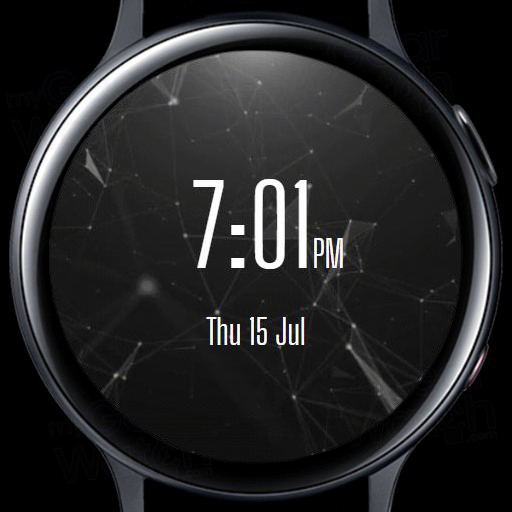
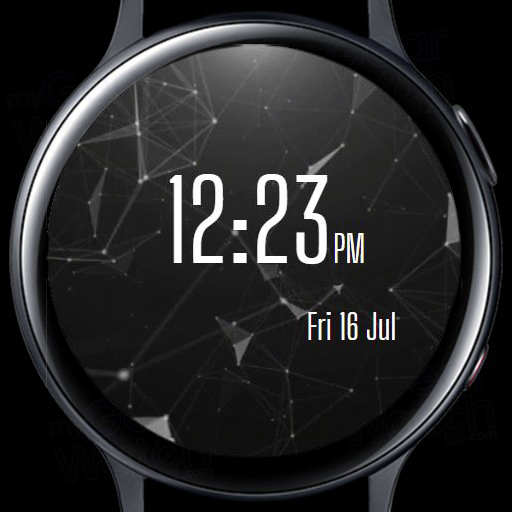
added explore page and poker face watch

diff --git a/css/style.css b/css/style.css
@@ -1,1 +1,1 @@
-body{min-height:100vh;width:100%;background-color:#000}#landingPage{width:100%;height:50vh;background-image:url("./../../images/watchBackgroundDigital.jpg");background-position:center;background-size:cover;background-repeat:no-repeat;display:flex;align-items:center;justify-content:center;box-shadow:0 0 20px #000;clip-path:ellipse(100% 55% at 48% 44%)}nav{width:100%;position:absolute;top:0;padding:10px 0;max-height:42.5px}nav .watchIcon{height:30px;margin-left:10px}nav ul{float:right;position:relative;width:350px;display:flex;align-items:center;justify-content:space-around;font-family:"Raleway",sans-serif;font-weight:400;font-size:20px;list-style:none;color:#fff}nav ul li{transition:.3s ease-in-out;cursor:pointer}nav ul li a{text-decoration:none;color:#fff}nav ul li a:hover{color:#dce0e6}nav .selected{color:#dce0e6}nav .selected::after{content:"";border-bottom:1px solid #0226b0;display:block}#getStartedBox{display:flex;flex-direction:column;justify-content:center;align-items:center}#getStartedBox #getStartedButtons{display:flex;justify-content:space-around;align-items:center;width:200px;height:50px}#getStartedBox #getStartedButtons button{width:80px;height:40px;font-family:"Raleway",sans-serif;font-weight:800;border:2px solid;cursor:pointer;border-radius:2px;transition:.3s ease-in-out}#getStartedBox #getStartedButtons #getStarted{background-color:#f7d826;border-color:#f7d826}#getStartedBox #getStartedButtons #getStarted:hover{background-color:transparent;color:#f7d826;border-color:#0226b0}#getStartedBox #getStartedButtons #learnMore{background-color:transparent;border-color:#0226b0;color:#f7d826}#getStartedBox #getStartedButtons #learnMore:hover{background-color:#f7d826;color:#000;border-color:#f7d826}h1{color:#fff;font-family:"Playfair Display",serif;font-size:80px;font-weight:400;margin-bottom:10px;text-align:center;text-shadow:3px 4px 3px #000}h2{color:#fff;font-family:"Playfair Display",serif;font-size:70px;font-weight:400;margin-bottom:10px;text-align:center;text-shadow:3px 4px 3px #000}.watchFaceContainer{width:320px;height:345px;background-color:#000;text-align:center;font-family:"Raleway",sans-serif;font-weight:300;color:#fff;margin:10px 20px;border-radius:2px;transition:.3s ease-in-out}.watchFaceContainer:hover{background-color:#dce0e6;color:#000}.watchFaceContainer img{margin:0 auto;border-radius:2px;width:100%}#introFaces{display:flex;flex-wrap:wrap;align-items:center;justify-content:space-around;margin:40px 0;padding:20px 0;border-radius:2px}@media screen and (max-width: 550px){h1{font-size:50px}}#aboutMe{margin-top:100px;display:flex;flex-direction:column}#aboutMe p{color:#fff;font-family:"Raleway",sans-serif;line-height:1.5;width:600px;margin:30px auto}#aboutMe a{margin:0 auto}#mePortrait{width:250px;position:relative;margin:0 auto;border-radius:2px}.contactButton{width:80px;height:40px;font-family:"Raleway",sans-serif;font-weight:800;background-color:transparent;border:2px solid #f7d826;border-radius:2px;color:#f7d826;transition:.3s ease-in-out;cursor:pointer}.contactButton:hover{background-color:#f7d826;color:#000}*{padding:0;margin:0;box-sizing:border-box}/*# sourceMappingURL=style.css.map */
+nav{width:100%;position:absolute;top:0;padding:10px 0;max-height:42.5px}nav .watchIcon{height:30px;margin-left:10px}nav ul{float:right;position:relative;width:350px;display:flex;align-items:center;justify-content:space-around;font-family:"Raleway",sans-serif;font-weight:400;font-size:20px;list-style:none;color:#fff}nav ul li{transition:.3s ease-in-out;cursor:pointer}nav ul li a{text-decoration:none;color:#fff}nav ul li a:hover{color:#dce0e6}nav .selected{color:#dce0e6}nav .selected::after{content:"";border-bottom:1px solid #0226b0;display:block}body{min-height:100vh;width:100%;background-color:#000}#landingPage{width:100%;height:50vh;background-image:url("./../../images/watchBackgroundDigital.jpg");background-position:center;background-size:cover;background-repeat:no-repeat;display:flex;align-items:center;justify-content:center;box-shadow:0 0 20px #000;clip-path:ellipse(100% 55% at 48% 44%)}#getStartedBox{display:flex;flex-direction:column;justify-content:center;align-items:center}#getStartedBox #getStartedButtons{display:flex;justify-content:space-around;align-items:center;width:200px;height:50px}#getStartedBox #getStartedButtons button{width:80px;height:40px;font-family:"Raleway",sans-serif;font-weight:800;border:2px solid;cursor:pointer;border-radius:2px;transition:.3s ease-in-out}#getStartedBox #getStartedButtons #getStarted{background-color:#f7d826;border-color:#f7d826}#getStartedBox #getStartedButtons #getStarted:hover{background-color:transparent;color:#f7d826;border-color:#0226b0}#getStartedBox #getStartedButtons #learnMore{background-color:transparent;border-color:#0226b0;color:#f7d826}#getStartedBox #getStartedButtons #learnMore:hover{background-color:#f7d826;color:#000;border-color:#f7d826}h1{color:#fff;font-family:"Playfair Display",serif;font-size:80px;font-weight:400;margin-bottom:10px;text-align:center;text-shadow:3px 4px 3px #000}h2{color:#fff;font-family:"Playfair Display",serif;font-size:70px;font-weight:400;margin-bottom:10px;text-align:center;text-shadow:3px 4px 3px #000}.watchFaceContainer{width:320px;height:345px;background-color:#000;text-align:center;font-family:"Raleway",sans-serif;font-weight:300;color:#fff;margin:10px 40px;border-radius:2px;transition:.3s ease-in-out;overflow:hidden}.watchFaceContainer:hover{background-color:#dce0e6;color:#000}.watchFaceContainer img{margin:0 auto;border-radius:2px;width:100%}#introFaces{display:flex;flex-wrap:wrap;align-items:center;justify-content:space-around;margin:40px 0;padding:20px 0;border-radius:2px}#aboutMe{padding-top:100px;display:flex;flex-direction:column}#aboutMe p{color:#fff;font-family:"Raleway",sans-serif;line-height:1.5;width:600px;margin:30px auto}#aboutMe a{margin:0 auto}#mePortrait{width:250px;position:relative;margin:0 auto;border-radius:2px}.contactButton{width:80px;height:40px;font-family:"Raleway",sans-serif;font-weight:800;background-color:transparent;border:2px solid #f7d826;border-radius:2px;color:#f7d826;transition:.3s ease-in-out;cursor:pointer}.contactButton:hover{background-color:#f7d826;color:#000}#exploreHead{padding-top:100px}.watchesContainer{display:flex;flex-wrap:wrap;justify-content:space-around;align-items:center;width:80%;margin:0 auto}@media screen and (max-width: 550px){h1{font-size:50px}}*{padding:0;margin:0;box-sizing:border-box}/*# sourceMappingURL=style.css.map */

diff --git a/styles/pages/_main.scss b/styles/pages/_main.scss
@@ -2,34 +2,13 @@
 
 /* 
 Index
-1. Home
-2. About
-3. Explore
-
+1. Nav
+2. Home
+3. About
+4. Explore
 */
 
-//1. Home
-body {
-    min-height: 100vh;
-    width: 100%;
-    background-color: black;
-    //background-image: url("./../../images/so-white.png");
-}
-
-#landingPage {
-    width: 100%;
-    height: 50vh;
-    background-image: url("./../../images/watchBackgroundDigital.jpg");
-    background-position: center;
-    background-size: cover;
-    background-repeat: no-repeat;
-    display: flex;
-    align-items: center;
-    justify-content: center;
-    box-shadow: 0 0 20px #000;
-    clip-path: ellipse(100% 55% at 48% 44%);
-}
-
+//1. Nav
 nav {
     width: 100%;
     position: absolute;
@@ -72,6 +51,28 @@ nav {
             display: block;
         }
     }
+}
+
+//2. Home
+body {
+    min-height: 100vh;
+    width: 100%;
+    background-color: black;
+    //background-image: url("./../../images/so-white.png");
+}
+
+#landingPage {
+    width: 100%;
+    height: 50vh;
+    background-image: url("./../../images/watchBackgroundDigital.jpg");
+    background-position: center;
+    background-size: cover;
+    background-repeat: no-repeat;
+    display: flex;
+    align-items: center;
+    justify-content: center;
+    box-shadow: 0 0 20px #000;
+    clip-path: ellipse(100% 55% at 48% 44%);
 }
 
 #getStartedBox {
@@ -145,9 +146,10 @@ h2 {
     font-family: v.$font2;
     font-weight: 300;
     color: white;
-    margin: 10px 20px;
+    margin: 10px 40px;
     border-radius: 2px;
     transition: .3s ease-in-out;
+    overflow: hidden;
     &:hover {
         background-color: v.$lightGrey;
         color: black;
@@ -169,15 +171,9 @@ h2 {
     border-radius: 2px;
 }
 
-@media screen and (max-width: 550px) {
-    h1 {
-        font-size: 50px;
-    }
-}
-
-//2. About
+//3. About
 #aboutMe {
-    margin-top: 100px;
+    padding-top: 100px;
     display: flex;
     flex-direction: column;
     p{
@@ -216,3 +212,31 @@ h2 {
     }
 }
 
+
+//4. Explore
+#exploreHead {
+    padding-top: 100px;
+}
+
+.watchesContainer {
+    display: flex;
+    flex-wrap: wrap;
+    justify-content: space-around;
+    align-items: center;
+    width: 80%;
+    margin: 0 auto;
+}
+
+
+
+
+
+
+
+
+
+@media screen and (max-width: 550px) {
+    h1 {
+        font-size: 50px;
+    }
+}

diff --git a/explore.html b/explore.html
@@ -1,0 +1,48 @@
+<!DOCTYPE html>
+<html lang="en">
+<head>
+    <meta charset="UTF-8">
+    <meta http-equiv="X-UA-Compatible" content="IE=edge">
+    <meta name="viewport" content="width=device-width, initial-scale=1.0">
+    <link type="text/css" rel="stylesheet" href="./css/style.css">
+    <link rel="preconnect" href="https://fonts.googleapis.com">
+    <link rel="preconnect" href="https://fonts.gstatic.com" crossorigin>
+    <link href="https://fonts.googleapis.com/css2?family=Playfair+Display&family=Raleway&display=swap" rel="stylesheet">
+    <title>Watch Designs</title>
+</head>
+<body>
+    <nav>
+        <img class="watchIcon" src="./images/whiteWatchIcon.svg" alt=""/>
+        <ul>
+            <li><a href="./index.html">Home</a></li>
+            <li><a href="./about.html">About</a></li>
+            <li><a href="./explore.html" class="selected">Explore</a></li>
+        </ul>
+    </nav>
+    <section id="explore">
+    <h2 id="exploreHead">Explore</h2>
+    <div class="watchesContainer">
+        <div class="watchFaceContainer">
+            <img width="320" height="320" src="./images/urbanNeonWatchDisplay.jpg" alt="Urban Neon" />
+            <h4>Urban Neon</h4>
+        </div>
+        <div class="watchFaceContainer">
+            <img width="320" height="320" src="./images/skyLineSample.jpg" alt="City SkyLine" />
+            <h4>NYC Skyline</h4>
+        </div>
+        <div class="watchFaceContainer">
+            <img width="320" height="320" src="./images/animatedNeon.jpg" alt="Infinite Cyber" />
+            <h4>Animated Cyber</h4>
+        </div>
+        <div class="watchFaceContainer">
+            <img width="320" height="320" src="./images/techSample.jpg" alt="Infinie Tech" />
+            <h4>Animated Tech</h4>
+        </div>
+        <div class="watchFaceContainer">
+            <img width="320" height="320" src="./images/pokerSample.jpg" alt="Poker Face" />
+            <h4>Poker Face</h4>
+        </div>
+    </div>
+</section>
+</body>
+</html>

diff --git a/about.html b/about.html
@@ -34,7 +34,7 @@
         a few watch faces help with my designing. It was a baby step tword bigger 
         things. With a very finite screen size I was able to focus on every little detail and 
         position each design until it was exactly as I imagined in my head and I hope you 
-        enjoy them as much as I enjoyed making them. If you have a face in mind but can’t 
+        enjoy them as much as I enjoyed making them. If you have a face in mind and can’t 
         find it no matter how high or low you look, contact me and I’ll try my best to make 
         your vision for free.
     </p>

diff --git a/index.html b/index.html
@@ -42,10 +42,6 @@
             <h4>NYC Skyline</h4>
         </div>
         <div class="watchFaceContainer">
-            <img src="./images/animatedNeon.jpg" alt="Infinite Cyber" />
-            <h4>Animated Cyber</h4>
-        </div>
-        <div class="watchFaceContainer">
             <img src="./images/techSample.jpg" alt="Infinie Tech" />
             <h4>Animated Tech</h4>
         </div>

diff --git a/styles/pages/_index.scss b/styles/pages/_index.scss
@@ -1,1 +1,1 @@
-@forward './home';
+@forward './main';
